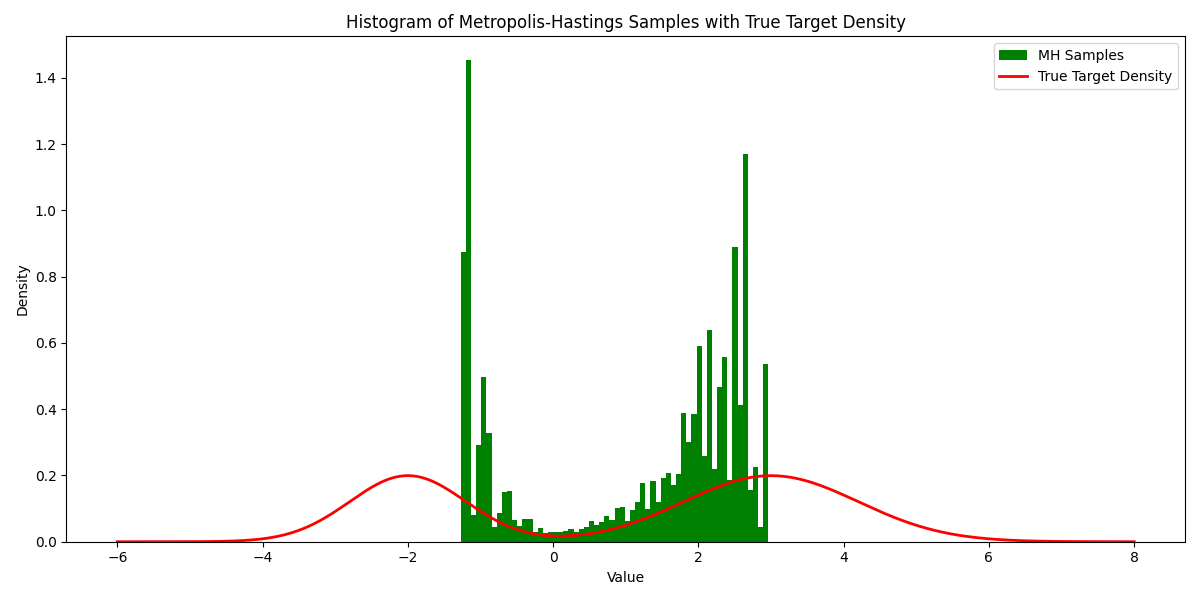
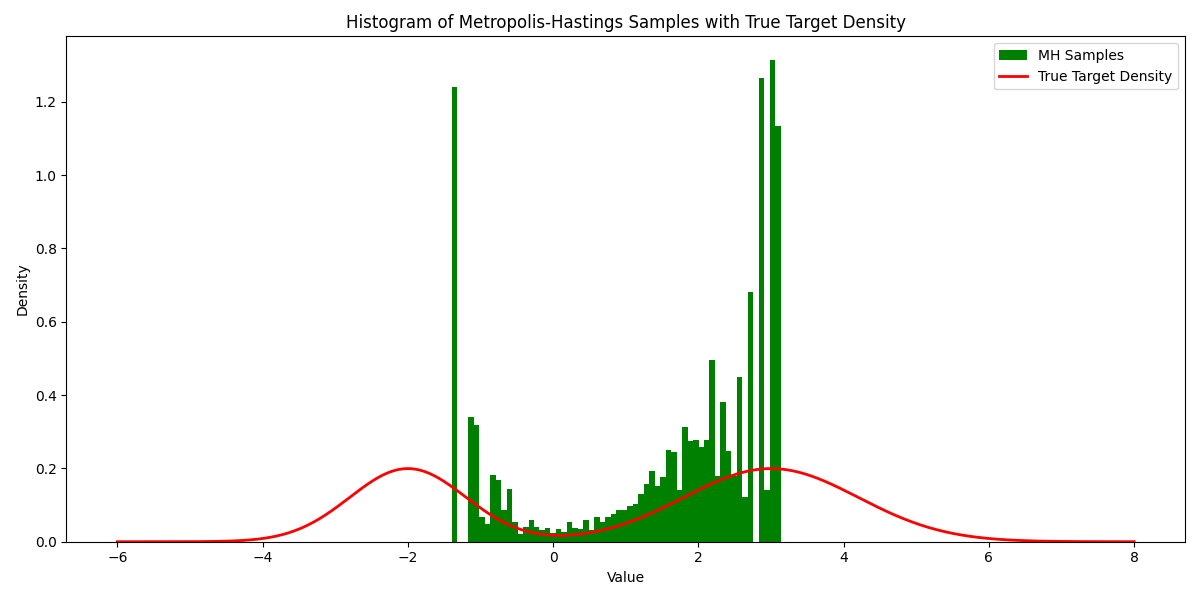
mh updates

diff --git a/metro_hastings_1.py b/metro_hastings_1.py
@@ -1,17 +1,15 @@
-import pandas as pd
+
 import matplotlib.pyplot as plt
 import numpy as np
 from scipy.stats import norm
-from scipy.stats import lognorm
 
 ## Define the target distribution as an unnormalized mixture of two Gaussians using scipy.states.norm.pdf
 def target_distribution(x):
-    return 0.4 * norm.pdf(x, loc=-2, scale=0.8) + 0.6 * norm.pdf(x, loc=3, scale=1.2) ## explain what loc and scale are here
-
+    return 0.4 * norm.pdf(x, loc=-2, scale=0.8) + 0.6 * norm.pdf(x, loc=3, scale=1.2) ## Defines target distribution. Loc = location of the mean, scale = standard deviation. Mixture of two Gaussians with weights 0.4 and 0.6
 ## define metropolis-hastings algorithm
 def metropolis_hastings(target_dist, n_samples, x_init):
-    samples = []
-    x_current = x_init
+    samples = [] ## initialize list to hold samples
+    x_current = x_init ## initialize current sample to initial value (input of the function)
     n_accepted = 0 ## initialize counter for accepted proposals
     for i in range(n_samples):
         mu_proposal = np.log(abs(x_current) + 1) ## propose new sample from normal distribution centered at log of absolute value of current sample plus 1
@@ -19,10 +17,9 @@ def metropolis_hastings(target_dist, n_samples, x_init):
         mu_reverse = np.log(abs(x_proposal) + 1) ## compute reverse proposal mean as log of absolute value of current sample plus 1  
         q_forward = norm.pdf(x_proposal, loc=mu_proposal, scale=0.5) ## compute forward proposal density
         q_backward = norm.pdf(x_current, loc=mu_reverse, scale=0.5) ## compute backward proposal density
-        alpha = (target_dist(x_proposal) * q_backward) / (target_dist(x_current) * q_forward) 
-        alpha = min(1, (target_dist(x_proposal) * q_backward) / (target_dist(x_current) * q_forward)) ## accept proposal if random number between 0 and 1 is less than acceptance ratio
-        alpha = min(1, alpha)
-        if np.random.rand() < alpha:
+        alpha = (target_dist(x_proposal) * q_backward) / (target_dist(x_current) * q_forward) ## define acceptance ratio as (target density at proposed sample * backward proposal density) / (target density at current sample * forward proposal density) according to metropolis-hastings acceptance ratio formula
+        alpha_1 = min(1, alpha) ## acceptance probability is minimum of 1 and acceptance ratio to bound acceptance probability between 0 and 1
+        if np.random.rand() < alpha_1:## accept proposal if random number between 0 and 1 is less than acceptance ratio
             x_current = x_proposal
             n_accepted += 1
         samples.append(x_current)
@@ -58,7 +55,7 @@ plt.tight_layout()
 plt.savefig('mh_histogram.png')
 
 ## print acceptance rate, mean, std of post-burn-in samples
-acceptance_rate = n_accepted / n_samples_0 ## compute acceptance rate as number of unique samples divided by total number of samples
+acceptance_rate = n_accepted / n_samples_0 ## compute acceptance rate as number of accepted proposal divided by total number of proposals
 print(f"Acceptance Rate: {acceptance_rate:.2%}")
 print(f"Mean of Samples: {np.mean(samples):.4f}")
 print(f"Standard Deviation of Samples: {np.std(samples):.4f}")  
